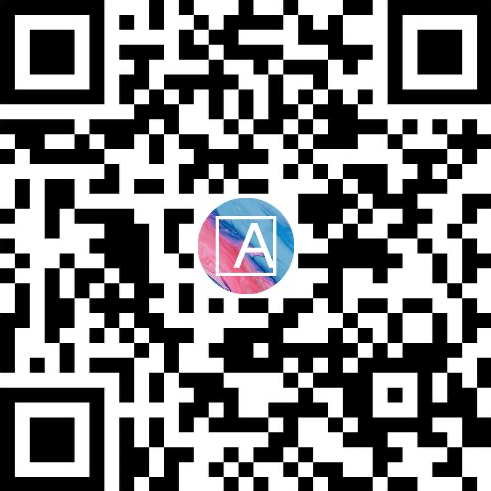
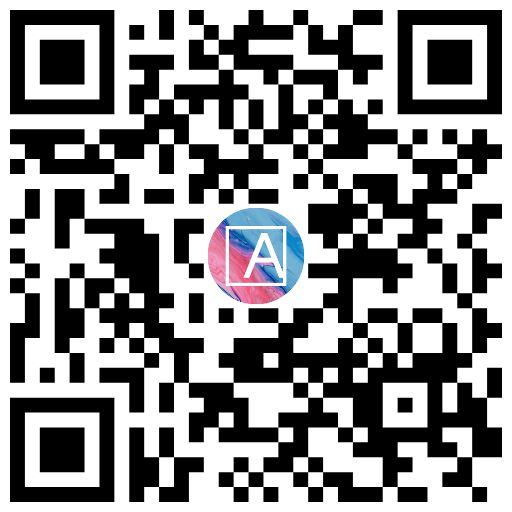
QRCodee enlevé pour le moment

diff --git a/src/pages/ProgSeptember/ProgSeptember.js b/src/pages/ProgSeptember/ProgSeptember.js
@@ -4,7 +4,7 @@ import styles from "./ProgSeptember.module.css";
 import ExpandableTransText from "../../components/ExpandableTransText";
 import FotoFilm from "../../components/FotoFilm";
 import QRcode3D from "../../assets/images/QRcode3D.png";
-
+import ImagepourQRcode from "../../assets/images/ImagepourQRcode.png";
 import MapButton from "../../components/MapButton";
 import ScrollToTop from "../../components/ScrollToTop";
 
@@ -36,13 +36,6 @@ import MatteoBW03 from "../../assets/images/MatteoBW03.png";
 import MatteoBW04 from "../../assets/images/MatteoBW04.png";
 import MatteoBW05 from "../../assets/images/MatteoBW05.png";
 import MatteoBRit from "../../assets/images/MatteoBRit.png";
-
-// import APirriRit from "../../assets/images/APirriRit.png";
-// import APirriW01 from "../../assets/images/APirriW01.png";
-// import APirriW02 from "../../assets/images/APirriW02.png";
-// import APirriW03 from "../../assets/images/APirriW03.png";
-// import APirriW04 from "../../assets/images/APirriW04.png";
-// import APirriW05 from "../../assets/images/APirriW05.png";
 
 import AdrianaRit from "../../assets/images/AdrianaRit.png";
 import AdrianaIT from "../../assets/images/AdrianaIT.png";
@@ -1127,19 +1120,21 @@ const ProgSeptember = () => {
             <source src={ARAcqua} type="video/mp4" />
           </video>
         </div>
-        {/* <div className={styles.VideoWrapperVertical}>
-          <video width="640" controls>
-            <source src={Basile01_720Recad} type="video/mp4" />
-          </video>
-        </div> */}
       </div>
-      <div className={styles.Watchin3DQrcode}>
+      {/* <div className={styles.Watchin3DQrcode}>
         <Trans
           i18nKey="programSeptember.appointment3.watchin3D"
           components={{ br: <br /> }}
         />
-      </div>
-      <img src={QRcode3D} alt="QR Code 3D" className={styles.Qrcode3D} />
+      </div> */}
+      {/* <div className={styles.qrRow}>
+        <img
+          src={ImagepourQRcode}
+          alt="Image pour QRcode"
+          className={styles.Qrcode3D}
+        />
+        <img src={QRcode3D} alt="QR Code 3D" className={styles.Qrcode3D} />
+      </div> */}
 
       {/* 🎨 ArtistList parfaitement aligné */}
       <div className={styles.ArtistList}>

diff --git a/src/pages/ProgSeptember/ProgSeptember.module.css b/src/pages/ProgSeptember/ProgSeptember.module.css
@@ -464,6 +464,12 @@ video:fullscreen {
   margin-left: auto;
   margin-bottom: 20px;
 }
+.qrRow {
+  display: flex;
+  justify-content: center; /* ou space-between / flex-start */
+  align-items: center;
+  gap: 20px; /* espace horizontal entre les images */
+}
 
 /* Adapter pour les écrans larges */
 @media screen and (min-width: 1600px) {
